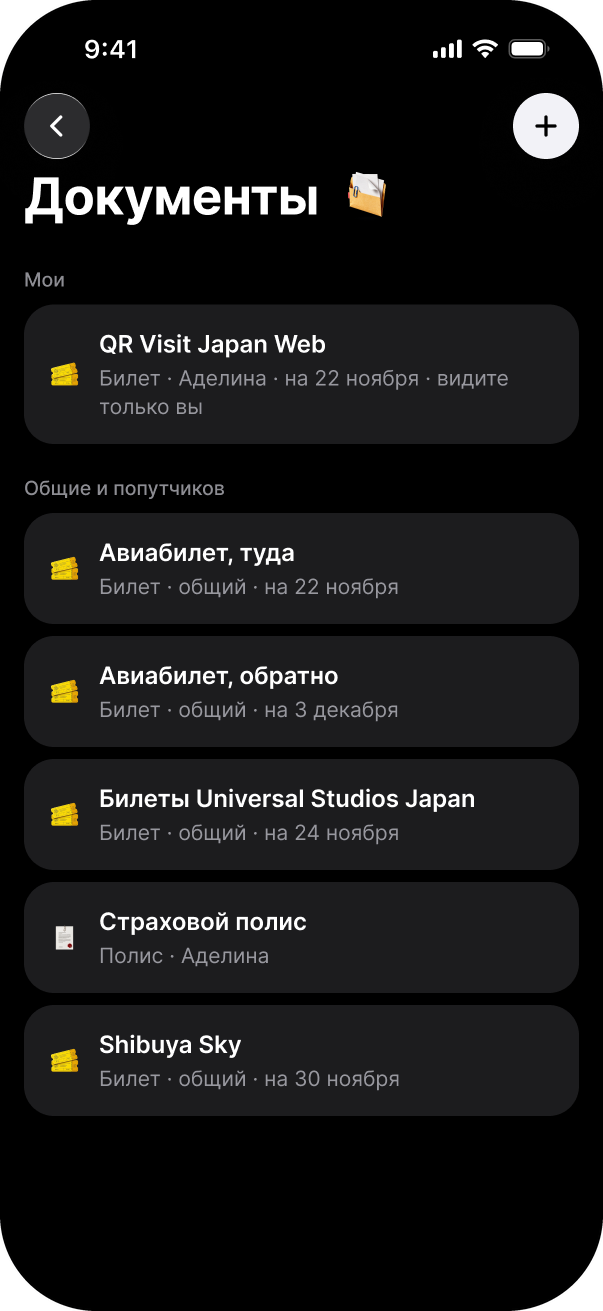
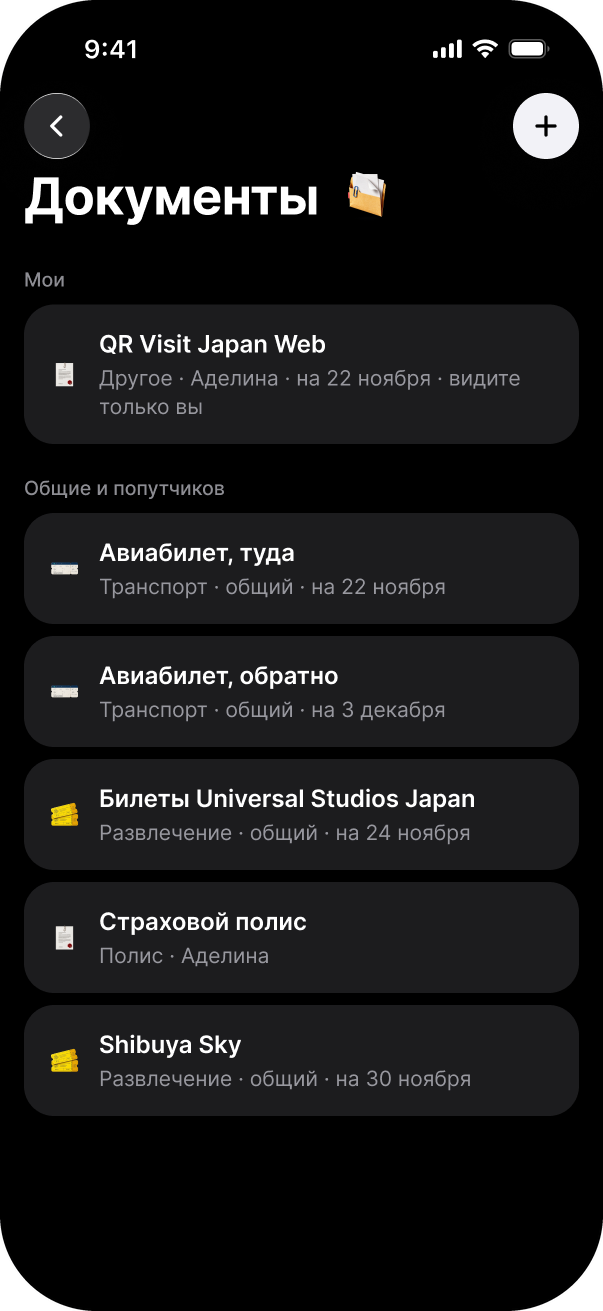
Галерея: макет «Документы» перевыгружен из Figma, обе темы
Claude-Session: https://claude.ai/code/session_01StpxptfvpjwGYmo7tgMf6k

diff --git a/payment-split.html b/payment-split.html
@@ -73,12 +73,12 @@
 <link rel="preload" as="font" type="font/woff2" crossorigin href="vendor/fonts/UcC73FwrK3iLTeHuS_nVMrMxCp50SjIa0ZL7W0Q5n-wU.woff2">
 <link rel="preload" as="font" type="font/woff2" crossorigin href="vendor/fonts/UcC73FwrK3iLTeHuS_nVMrMxCp50SjIa2JL7W0Q5n-wU.woff2">
 <link rel="stylesheet" href="vendor/inter.css">
-<link rel="stylesheet" href="base.css?v=202611161616">
-<link rel="stylesheet" href="article.css?v=202611161616">
+<link rel="stylesheet" href="base.css?v=202611161620">
+<link rel="stylesheet" href="article.css?v=202611161620">
 <!-- The SVG-only build: these files carry no expressions, images or text layers. -->
 <script src="vendor/lottie_light.min.js" defer></script>
-<script src="shared.js?v=202611161616" defer></script>
-<script src="page-payment-split.js?v=202611161616" defer></script>
+<script src="shared.js?v=202611161620" defer></script>
+<script src="page-payment-split.js?v=202611161620" defer></script>
 
 <!-- Vercel Web Analytics. Served from this domain, not from anyone else's:
      the site still makes no third-party requests. -->

diff --git a/activities.html b/activities.html
@@ -72,12 +72,12 @@
 <link rel="preload" as="font" type="font/woff2" crossorigin href="vendor/fonts/UcC73FwrK3iLTeHuS_nVMrMxCp50SjIa0ZL7W0Q5n-wU.woff2">
 <link rel="preload" as="font" type="font/woff2" crossorigin href="vendor/fonts/UcC73FwrK3iLTeHuS_nVMrMxCp50SjIa2JL7W0Q5n-wU.woff2">
 <link rel="stylesheet" href="vendor/inter.css">
-<link rel="stylesheet" href="base.css?v=202611161616">
-<link rel="stylesheet" href="article.css?v=202611161616">
+<link rel="stylesheet" href="base.css?v=202611161620">
+<link rel="stylesheet" href="article.css?v=202611161620">
 <!-- The SVG-only build: these files carry no expressions, images or text layers. -->
 <script src="vendor/lottie_light.min.js" defer></script>
-<script src="shared.js?v=202611161616" defer></script>
-<script src="page-activities.js?v=202611161616" defer></script>
+<script src="shared.js?v=202611161620" defer></script>
+<script src="page-activities.js?v=202611161620" defer></script>
 
 <!-- Vercel Web Analytics. Served from this domain, not from anyone else's:
      the site still makes no third-party requests. -->

diff --git a/desk-setup.html b/desk-setup.html
@@ -73,12 +73,12 @@
 <link rel="preload" as="font" type="font/woff2" crossorigin href="vendor/fonts/UcC73FwrK3iLTeHuS_nVMrMxCp50SjIa0ZL7W0Q5n-wU.woff2">
 <link rel="preload" as="font" type="font/woff2" crossorigin href="vendor/fonts/UcC73FwrK3iLTeHuS_nVMrMxCp50SjIa2JL7W0Q5n-wU.woff2">
 <link rel="stylesheet" href="vendor/inter.css">
-<link rel="stylesheet" href="base.css?v=202611161616">
-<link rel="stylesheet" href="article.css?v=202611161616">
+<link rel="stylesheet" href="base.css?v=202611161620">
+<link rel="stylesheet" href="article.css?v=202611161620">
 <!-- The SVG-only build: these files carry no expressions, images or text layers. -->
 <script src="vendor/lottie_light.min.js" defer></script>
-<script src="shared.js?v=202611161616" defer></script>
-<script src="page-desk-setup.js?v=202611161616" defer></script>
+<script src="shared.js?v=202611161620" defer></script>
+<script src="page-desk-setup.js?v=202611161620" defer></script>
 
 <!-- Vercel Web Analytics. Served from this domain, not from anyone else's:
      the site still makes no third-party requests. -->

diff --git a/animation-challenge.html b/animation-challenge.html
@@ -73,12 +73,12 @@
 <link rel="preload" as="font" type="font/woff2" crossorigin href="vendor/fonts/UcC73FwrK3iLTeHuS_nVMrMxCp50SjIa0ZL7W0Q5n-wU.woff2">
 <link rel="preload" as="font" type="font/woff2" crossorigin href="vendor/fonts/UcC73FwrK3iLTeHuS_nVMrMxCp50SjIa2JL7W0Q5n-wU.woff2">
 <link rel="stylesheet" href="vendor/inter.css">
-<link rel="stylesheet" href="base.css?v=202611161616">
-<link rel="stylesheet" href="article.css?v=202611161616">
+<link rel="stylesheet" href="base.css?v=202611161620">
+<link rel="stylesheet" href="article.css?v=202611161620">
 <!-- The SVG-only build: these files carry no expressions, images or text layers. -->
 <script src="vendor/lottie_light.min.js" defer></script>
-<script src="shared.js?v=202611161616" defer></script>
-<script src="page-animation.js?v=202611161616" defer></script>
+<script src="shared.js?v=202611161620" defer></script>
+<script src="page-animation.js?v=202611161620" defer></script>
 
 <!-- Vercel Web Analytics. Served from this domain, not from anyone else's:
      the site still makes no third-party requests. -->

diff --git a/easygoing.html b/easygoing.html
@@ -73,12 +73,12 @@
 <link rel="preload" as="font" type="font/woff2" crossorigin href="vendor/fonts/UcC73FwrK3iLTeHuS_nVMrMxCp50SjIa0ZL7W0Q5n-wU.woff2">
 <link rel="preload" as="font" type="font/woff2" crossorigin href="vendor/fonts/UcC73FwrK3iLTeHuS_nVMrMxCp50SjIa2JL7W0Q5n-wU.woff2">
 <link rel="stylesheet" href="vendor/inter.css">
-<link rel="stylesheet" href="base.css?v=202611161616">
-<link rel="stylesheet" href="article.css?v=202611161616">
+<link rel="stylesheet" href="base.css?v=202611161620">
+<link rel="stylesheet" href="article.css?v=202611161620">
 <!-- The SVG-only build: these files carry no expressions, images or text layers. -->
 <script src="vendor/lottie_light.min.js" defer></script>
-<script src="shared.js?v=202611161616" defer></script>
-<script src="page-easygoing.js?v=202611161616" defer></script>
+<script src="shared.js?v=202611161620" defer></script>
+<script src="page-easygoing.js?v=202611161620" defer></script>
 
 <!-- Vercel Web Analytics. Served from this domain, not from anyone else's:
      the site still makes no third-party requests. -->

diff --git a/airtrip.html b/airtrip.html
@@ -73,12 +73,12 @@
 <link rel="preload" as="font" type="font/woff2" crossorigin href="vendor/fonts/UcC73FwrK3iLTeHuS_nVMrMxCp50SjIa0ZL7W0Q5n-wU.woff2">
 <link rel="preload" as="font" type="font/woff2" crossorigin href="vendor/fonts/UcC73FwrK3iLTeHuS_nVMrMxCp50SjIa2JL7W0Q5n-wU.woff2">
 <link rel="stylesheet" href="vendor/inter.css">
-<link rel="stylesheet" href="base.css?v=202611161616">
-<link rel="stylesheet" href="article.css?v=202611161616">
+<link rel="stylesheet" href="base.css?v=202611161620">
+<link rel="stylesheet" href="article.css?v=202611161620">
 <!-- The SVG-only build: these files carry no expressions, images or text layers. -->
 <script src="vendor/lottie_light.min.js" defer></script>
-<script src="shared.js?v=202611161616" defer></script>
-<script src="page-airtrip.js?v=202611161616" defer></script>
+<script src="shared.js?v=202611161620" defer></script>
+<script src="page-airtrip.js?v=202611161620" defer></script>
 
 <!-- Vercel Web Analytics. Served from this domain, not from anyone else's:
      the site still makes no third-party requests. -->

diff --git a/mujo.html b/mujo.html
@@ -73,12 +73,12 @@
 <link rel="preload" as="font" type="font/woff2" crossorigin href="vendor/fonts/UcC73FwrK3iLTeHuS_nVMrMxCp50SjIa0ZL7W0Q5n-wU.woff2">
 <link rel="preload" as="font" type="font/woff2" crossorigin href="vendor/fonts/UcC73FwrK3iLTeHuS_nVMrMxCp50SjIa2JL7W0Q5n-wU.woff2">
 <link rel="stylesheet" href="vendor/inter.css">
-<link rel="stylesheet" href="base.css?v=202611161616">
-<link rel="stylesheet" href="article.css?v=202611161616">
+<link rel="stylesheet" href="base.css?v=202611161620">
+<link rel="stylesheet" href="article.css?v=202611161620">
 <!-- The SVG-only build: these files carry no expressions, images or text layers. -->
 <script src="vendor/lottie_light.min.js" defer></script>
-<script src="shared.js?v=202611161616" defer></script>
-<script src="page-mujo.js?v=202611161616" defer></script>
+<script src="shared.js?v=202611161620" defer></script>
+<script src="page-mujo.js?v=202611161620" defer></script>
 
 <!-- Vercel Web Analytics. Served from this domain, not from anyone else's:
      the site still makes no third-party requests. -->

diff --git a/wb.html b/wb.html
@@ -73,12 +73,12 @@
 <link rel="preload" as="font" type="font/woff2" crossorigin href="vendor/fonts/UcC73FwrK3iLTeHuS_nVMrMxCp50SjIa0ZL7W0Q5n-wU.woff2">
 <link rel="preload" as="font" type="font/woff2" crossorigin href="vendor/fonts/UcC73FwrK3iLTeHuS_nVMrMxCp50SjIa2JL7W0Q5n-wU.woff2">
 <link rel="stylesheet" href="vendor/inter.css">
-<link rel="stylesheet" href="base.css?v=202611161616">
-<link rel="stylesheet" href="article.css?v=202611161616">
+<link rel="stylesheet" href="base.css?v=202611161620">
+<link rel="stylesheet" href="article.css?v=202611161620">
 <!-- The SVG-only build: these files carry no expressions, images or text layers. -->
 <script src="vendor/lottie_light.min.js" defer></script>
-<script src="shared.js?v=202611161616" defer></script>
-<script src="page-wb.js?v=202611161616" defer></script>
+<script src="shared.js?v=202611161620" defer></script>
+<script src="page-wb.js?v=202611161620" defer></script>
 
 <!-- Vercel Web Analytics. Served from this domain, not from anyone else's:
      the site still makes no third-party requests. -->

diff --git a/index.html b/index.html
@@ -72,12 +72,12 @@
 <link rel="preload" as="font" type="font/woff2" crossorigin href="vendor/fonts/UcC73FwrK3iLTeHuS_nVMrMxCp50SjIa0ZL7W0Q5n-wU.woff2">
 <link rel="preload" as="font" type="font/woff2" crossorigin href="vendor/fonts/UcC73FwrK3iLTeHuS_nVMrMxCp50SjIa2JL7W0Q5n-wU.woff2">
 <link rel="stylesheet" href="vendor/inter.css">
-<link rel="stylesheet" href="base.css?v=202611161616">
-<link rel="stylesheet" href="home.css?v=202611161616">
+<link rel="stylesheet" href="base.css?v=202611161620">
+<link rel="stylesheet" href="home.css?v=202611161620">
 <!-- The SVG-only build: these files carry no expressions, images or text layers. -->
 <script src="vendor/lottie_light.min.js" defer></script>
-<script src="shared.js?v=202611161616" defer></script>
-<script src="home.js?v=202611161616" defer></script>
+<script src="shared.js?v=202611161620" defer></script>
+<script src="home.js?v=202611161620" defer></script>
 
 <!-- Vercel Web Analytics. Served from this domain, not from anyone else's:
      the site still makes no third-party requests. -->

diff --git a/404.html b/404.html
@@ -37,8 +37,8 @@
 <link rel="preload" as="font" type="font/woff2" crossorigin href="/vendor/fonts/UcC73FwrK3iLTeHuS_nVMrMxCp50SjIa1ZL7W0Q5nw.woff2">
 <link rel="preload" as="font" type="font/woff2" crossorigin href="/vendor/fonts/UcC73FwrK3iLTeHuS_nVMrMxCp50SjIa0ZL7W0Q5n-wU.woff2">
 <link rel="preload" as="font" type="font/woff2" crossorigin href="/vendor/fonts/UcC73FwrK3iLTeHuS_nVMrMxCp50SjIa2JL7W0Q5n-wU.woff2">
-<link rel="stylesheet" href="/vendor/inter.css?v=202611161616">
-<link rel="stylesheet" href="/base.css?v=202611161616">
+<link rel="stylesheet" href="/vendor/inter.css?v=202611161620">
+<link rel="stylesheet" href="/base.css?v=202611161620">
 <style>
   .notfound {
     min-height: 100vh;

diff --git a/shared.js b/shared.js
@@ -9,7 +9,7 @@
 // Pictures the scripts build get this stamp on the end of their address.
 // A file keeps its name when its contents change, and without the stamp a
 // browser goes on showing the copy it already has.
-var ASSET_V = '202611161616';
+var ASSET_V = '202611161620';
 
 window.PF = (function () {
   'use strict';
